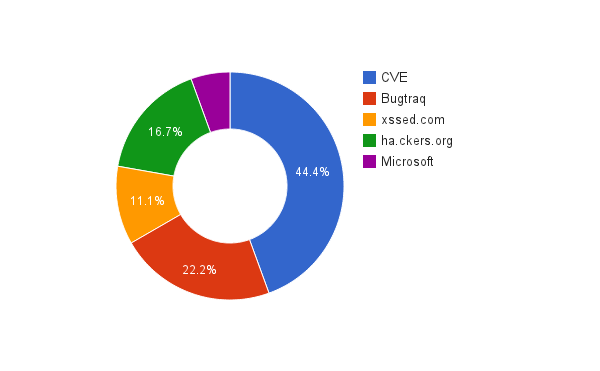
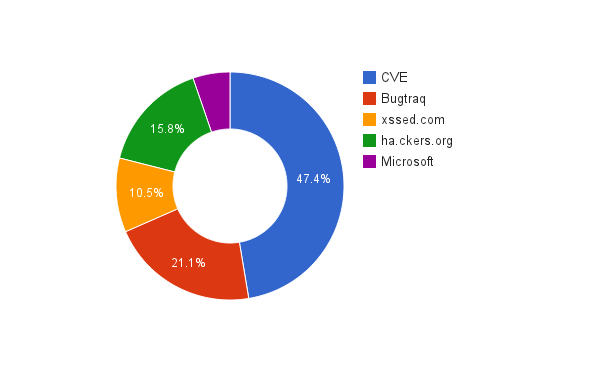
some additions - changes

diff --git a/docs/questioning.tex b/docs/questioning.tex
@@ -602,10 +602,9 @@ Figure~\ref{fig:defenses} presents a taxonomy of the
 defenses that protect web applications against attacks based on
 code injection vulnerabilities.
 We can identify three main approaches, namely:
-{\it design-based}, {\it behavior-based}
-and {\it hybrid}.
+{\it design-based}, {\it behavior-based} and {\it hybrid}.
 The design-based category involves mechanisms that make applications
-immune to different attack vectors by design~\cite{JL75,L81}.
+immune to different attack vectors by design~\cite{JL75,L81}. 
 The behavior-based incorporates a variety of methods and
 schemes that inspect the behavior of applications
 and detect attacks based on specific criteria~\cite{D76,A00}.
@@ -1407,7 +1406,7 @@ authors reffered to, to find vulnerabilities to test
 their mechanims. We also provide which source was used
 by which publication:
 {\it Bugtraq}~\cite{PB05,KKVJ06,KJKV09,JEP08},
-{\sc cve}~\cite{XBS06,NLC07,VFJKKV07,PMP11,BK04,JB07,SMS13,WPLKK09},
+{\sc cve}~\cite{XBS06,NLC07,VFJKKV07,PMP11,BK04,JB07,SMS13,WPLKK09,JKK06a},
 {\sc xss}ed.com~\cite{NSS06,APKLM10},
 ha.ckers.org~\cite{TNH07,PSC09,LV09},
 Microsoft~\cite{RDWDE07}.}
@@ -1430,9 +1429,17 @@ security bulletin provider. Figure~\ref{fig:defect_sources}
 presents how many (in terms of percentages) and which
 (in the figure's caption) authors referred to which source.
 In numerous occassions authors performed tests based
-on the same applications. For instance, 12 mechanisms
+on the same applications. For example, 12 mechanisms
 were tested on a vulnerable version of
 {\sc phpbb}.\footnote{https://www.phpbb.com/}
+
+There are also authors that took a different approach.
+For instance, during their initial tests,
+Stock et al.~\cite{SLMS14} managed to bypass
+the browser-based {\sc xss} filters of the
+73\% of 1,602 real-world {\sc dom}-based {\sc xss} vulnerabilities.
+These vulnerabilities were actually found during
+their previous research~\cite{LSJ13}.
 
 \subsection{Trade-offs}
 
